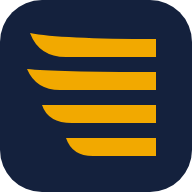
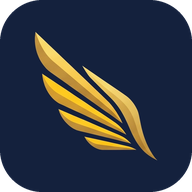
شعار «الجناح الحركي» من تصور المالك: صورة شفافة بالاتجاه المعكوس مع تمايل خفيف، وتحديث الأيقونات وبطاقة المشاركة
Claude-Session: https://claude.ai/code/session_015ZCZKgBbVnKvqyfnico8MF

diff --git a/site_assets/style.css b/site_assets/style.css
@@ -428,3 +428,11 @@ body:has(.hero) .edition__line{display:none}
 .live__item iframe{display:block;width:100%;height:460px;border:0}
 .live__item figcaption{font-size:.8rem;padding:6px 12px 8px;color:var(--ink-2)}
 .live__item figcaption a{color:inherit}
+
+/* ── «الجناح الحركي» (6 Nov 2026): the owner's wing as a transparent image, a soft lift and glow on hover ── */
+.lamassu-wing-logo{width:42px;height:42px;display:block;flex:none;transition:transform .4s cubic-bezier(.25,1,.5,1),filter .4s ease}
+.brand-link:hover .lamassu-wing-logo,.brand-link:focus-visible .lamassu-wing-logo{transform:translateY(-2px) scale(1.08);filter:brightness(1.15)}
+/* a light, flowing idle sway around the wing's root (bottom right), like a slow wing-beat; hover adds the lift */
+.lamassu-wing-logo{transform-origin:86% 90%;animation:wingFloat 4.8s ease-in-out infinite alternate}
+@keyframes wingFloat{0%{rotate:0deg;translate:0 0}55%{rotate:-2.5deg;translate:0 -1px}100%{rotate:1deg;translate:0 0}}
+@media (prefers-reduced-motion:reduce){.lamassu-wing-logo{transition:none;animation:none}.brand-link:hover .lamassu-wing-logo{transform:none}}

diff --git a/templates/base.html b/templates/base.html
@@ -33,7 +33,7 @@
 <header class="mast">
   <div class="wrap mast__inner">
     <div class="mast__brand">
-      <a class="wordmark" href="{{ root }}index.html" lang="en" dir="ltr"><svg class="wordmark__mark" viewBox="0 0 64 64" width="40" height="40" aria-hidden="true" focusable="false"><rect width="64" height="64" rx="14" fill="#14213D"/><g fill="#F2A900"><path class="feather f1" d="M52 13 L52 19 L22 19 Q13 19 10 11 Q20 13 52 13Z"/><path class="feather f2" d="M52 24 L52 30 L20 30 Q12 30 9 23 Q18 24 52 24Z"/><path class="feather f3" d="M52 35 L52 41 L24 41 Q16 41 14 35 Q22 35 52 35Z"/><path class="feather f4" d="M52 46 L52 52 L31 52 Q24 52 22 46 Q29 46 52 46Z"/></g></svg>{{ site.site_name }}</a>
+      <a class="wordmark brand-link" href="{{ root }}index.html" lang="en" dir="ltr"><img class="wordmark__img lamassu-wing-logo" src="{{ root }}assets/brand/lamassu-wing-64.png" srcset="{{ root }}assets/brand/lamassu-wing-64.png 1x, {{ root }}assets/brand/lamassu-wing-128.png 2x" width="42" height="42" alt="">{{ site.site_name }}</a>
       <p class="mast__tagline">{{ site.tagline }}</p>
     </div>
     <div class="mast__tools">

diff --git a/newsroom/cards.py b/newsroom/cards.py
@@ -181,7 +181,12 @@ def make_brand_card(path: str, name: str, tagline: str, tagline_en: str = ""):
     big = ImageFont.truetype(os.path.join(FONTS, "Cairo_800ExtraBold.ttf"), 150)
     nw = big.getlength(name)
     d.text((pad_r - nw, 150), name, font=big, fill=PAPER)
-    _draw_wing(d, pad_r - nw - 34, 205)                    # the wing, left of the name (as in the site header)
+    wing_png = os.path.join(ROOT, "site_assets", "brand", "lamassu-wing.png")
+    if os.path.exists(wing_png):                           # the owner's wing (6 Nov 2026), left of the name
+        wing = Image.open(wing_png).convert("RGBA").resize((176, 176), Image.LANCZOS)
+        img.paste(wing, (int(pad_r - nw - 34 - 176), 170), wing)
+    else:
+        _draw_wing(d, pad_r - nw - 34, 205)
     y_rule = 360
     d.rectangle((pad_r - nw, y_rule, pad_r, y_rule + 4), fill=AMBER)
     _rtl(d, pad_r, y_rule + 30, tagline, _font("semi", 52), AMBER)

diff --git a/docs/PROJECT_LOG.md b/docs/PROJECT_LOG.md
@@ -299,3 +299,14 @@
 - العمل كاملاً محفوظ في الفرع `preview/new-wing`، بالقالب والتنسيق والحركات، ولم يُنشر.
 - **قرار المالك:** يبقى الشعار الحالي، لأن التصميم يحتاج إلى مزيد من التطوير.
 - **عند الاعتماد:** دمج الفرع، ثم تحديث أيقونة المتصفح وأيقونة الهاتف وبطاقة المشاركة (FEATHERS في cards.py).
+
+## اعتماد شعار «الجناح الحركي» (6 نوفمبر 2026)
+- بعد ثلاث معاينات، اعتمد المالك الحل الأول: الجناح صورة شفافة مستخرجة من تصوره، بالاتجاه المعكوس كما في صورته الأخيرة (أطراف الريشات إلى أعلى اليسار، والجذر أسفل اليمين).
+- **السبب:** رسم الجناح بكود SVG يدوي لم يبلغ نعومة التصميم، وكود SVG المقترح كانت ريشاته بلا مساحة فظهرت خطوطاً. أما الصورة فتحفظ التصميم بلا تشويه.
+- **الملفات:** site_assets/brand/lamassu-wing.png (512 نقطة)، ومنها lamassu-wing-64.png وlamassu-wing-128.png للترويسة (عادية وعالية الدقة).
+- **حُدّثت أيضاً:** أيقونة المتصفح (favicon بكل مقاساته)، وأيقونات الهاتف (apple-touch، و192، و512)، وبطاقة المشاركة og-default.
+- **الحركة:**
+  - تمايل انسيابي خفيف حول جذر الجناح، مدته 4.8 ثانية ذهاباً وإياباً.
+  - عند تمرير الفأرة: ارتفاع وتكبير بسيط وتوهج.
+  - تتوقف الحركة مع خيار «تقليل الحركة».
+- الفرع preview/new-wing صار قديماً، ولا حاجة إليه.
